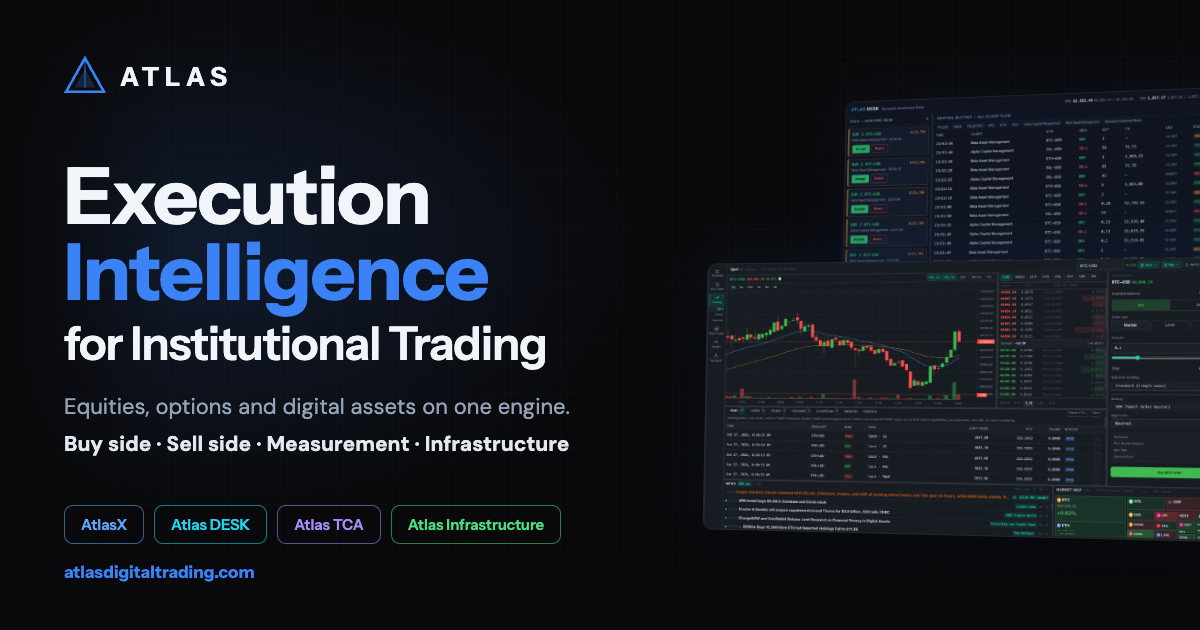
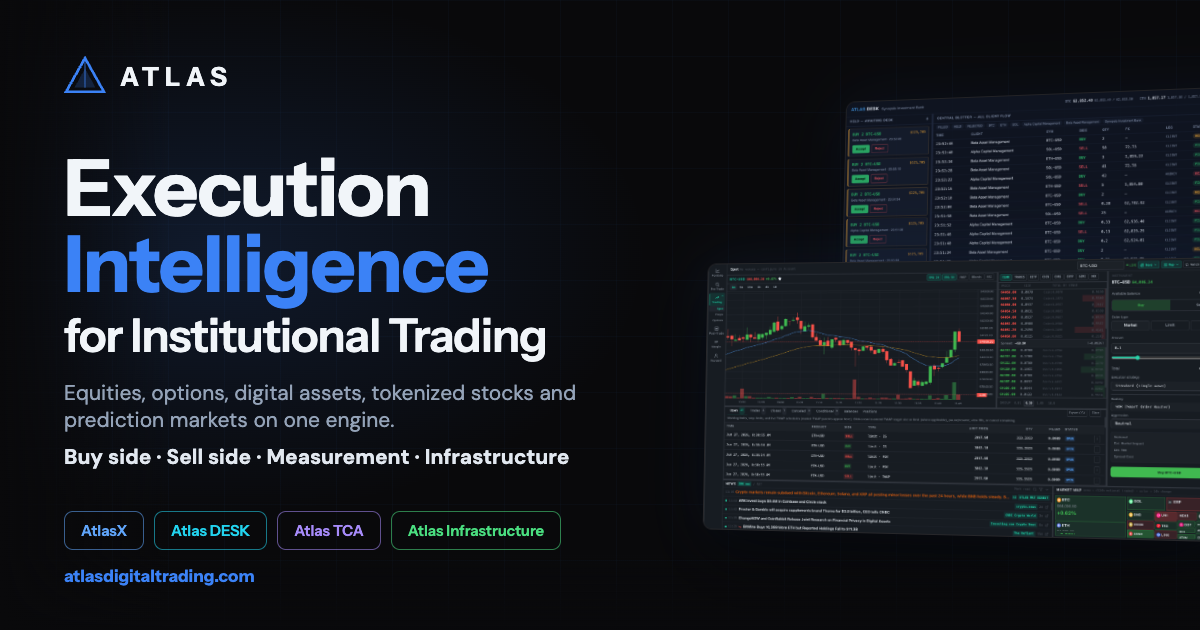
feat(positioning): sub-headline names all five asset classes
"Equities, options, digital assets, tokenized stocks and prediction
markets on one engine." in the hero, the meta description and the
share card (re-rendered). Hero line binds "on one engine" so the
two-line wrap on desktop does not orphan the last two words.

Changed region(s): [[0.0308, 0.2413, 0.4933, 0.754], [0.0308, 0.7841, 0.4625, 0.9349]]

diff --git a/scripts/og-home.html b/scripts/og-home.html
@@ -23,20 +23,20 @@
   }
   .brand { position: absolute; left: 64px; top: 56px; display: flex; align-items: center; gap: 14px; }
   .brand span { font-family: "Instrument Sans", sans-serif; font-weight: 700; font-size: 26px; letter-spacing: 0.22em; color: #f1f5f9; }
-  .copy { position: absolute; left: 64px; top: 158px; width: 600px; }
+  .copy { position: absolute; left: 64px; top: 150px; width: 610px; }
   h1 { font-family: "Instrument Sans", sans-serif; font-weight: 700; letter-spacing: -0.03em; line-height: 0.98; }
   h1 .l1, h1 .l2 { display: block; font-size: 78px; }
   h1 .l2 { color: #3b82f6; }
   h1 .l3 { display: block; margin-top: 10px; font-size: 46px; font-weight: 600; letter-spacing: -0.02em; color: #f1f5f9; }
-  .sub { margin-top: 26px; font-size: 22px; line-height: 1.35; color: #94a3b8; }
+  .sub { margin-top: 22px; font-size: 21px; line-height: 1.3; color: #94a3b8; }
   .sides { margin-top: 8px; font-size: 21px; font-weight: 700; color: #e2e8f0; }
-  .chips { position: absolute; left: 64px; bottom: 86px; display: flex; gap: 10px; }
+  .chips { position: absolute; left: 64px; bottom: 80px; display: flex; gap: 10px; }
   .chip { font-family: "Instrument Sans", sans-serif; font-weight: 600; font-size: 15px; padding: 9px 16px; border-radius: 9px; border: 1.5px solid; }
   .chip.x { color: #60a5fa; border-color: rgba(96,165,250,0.55); }
   .chip.d { color: #22d3ee; border-color: rgba(34,211,238,0.55); }
   .chip.t { color: #a78bfa; border-color: rgba(167,139,250,0.55); }
   .chip.i { color: #4ade80; border-color: rgba(74,222,128,0.55); }
-  .domain { position: absolute; left: 64px; bottom: 48px; font-family: "Instrument Sans", sans-serif; font-weight: 700; font-size: 17px; color: #3b82f6; }
+  .domain { position: absolute; left: 64px; bottom: 44px; font-family: "Instrument Sans", sans-serif; font-weight: 700; font-size: 17px; color: #3b82f6; }
   .shots { position: absolute; left: 690px; top: 70px; width: 560px; height: 560px; perspective: 1600px; }
   .shot { position: absolute; border-radius: 10px; border: 1px solid #27272a; overflow: hidden; background: #0f0f12;
           box-shadow: 0 30px 80px rgba(0,0,0,0.6), 0 0 60px rgba(59,130,246,0.12); }
@@ -68,7 +68,7 @@
       <span class="l2">Intelligence</span>
       <span class="l3">for Institutional Trading</span>
     </h1>
-    <div class="sub">Equities, options and digital assets on one engine.</div>
+    <div class="sub">Equities, options, digital assets, tokenized stocks and prediction markets on one engine.</div>
     <div class="sides">Buy side · Sell side · Measurement · Infrastructure</div>
   </div>
 

diff --git a/app/layout.tsx b/app/layout.tsx
@@ -18,7 +18,7 @@ const dmSans = DM_Sans({
 const siteTitle =
   "Atlas Digital Markets | Execution Intelligence for Institutional Trading";
 const siteDescription =
-  "Execution intelligence for institutional trading: equities, options and digital assets on one engine. AtlasX for the buy side, Atlas DESK for the sell side, Atlas TCA as standalone measurement, and Atlas Infrastructure behind partner platforms. Models that calibrate to each firm's own execution flow, so execution gets better the more you trade.";
+  "Execution intelligence for institutional trading: equities, options, digital assets, tokenized stocks and prediction markets on one engine. AtlasX for the buy side, Atlas DESK for the sell side, Atlas TCA as standalone measurement, and Atlas Infrastructure behind partner platforms. Models that calibrate to each firm's own execution flow, so execution gets better the more you trade.";
 
 export const metadata: Metadata = {
   metadataBase: new URL("https://atlasdigitaltrading.com"),

diff --git a/components/Hero.tsx b/components/Hero.tsx
@@ -61,8 +61,8 @@ export function Hero() {
           for Institutional Trading
         </h1>
 
-        <p className="font-display mx-auto mb-4 max-w-[760px] text-[clamp(18px,2vw,26px)] font-semibold leading-snug tracking-tight text-atlas-offwhite">
-          Equities, options and digital assets on one engine.
+        <p className="font-display mx-auto mb-4 max-w-[820px] text-[clamp(17px,1.8vw,24px)] font-semibold leading-snug tracking-tight text-atlas-offwhite">
+          Equities, options, digital assets, tokenized stocks and prediction markets on&nbsp;one&nbsp;engine.
         </p>
 
         <p className="mx-auto mb-9 max-w-[660px] text-[clamp(15px,1.4vw,18px)] leading-relaxed text-atlas-gray">
